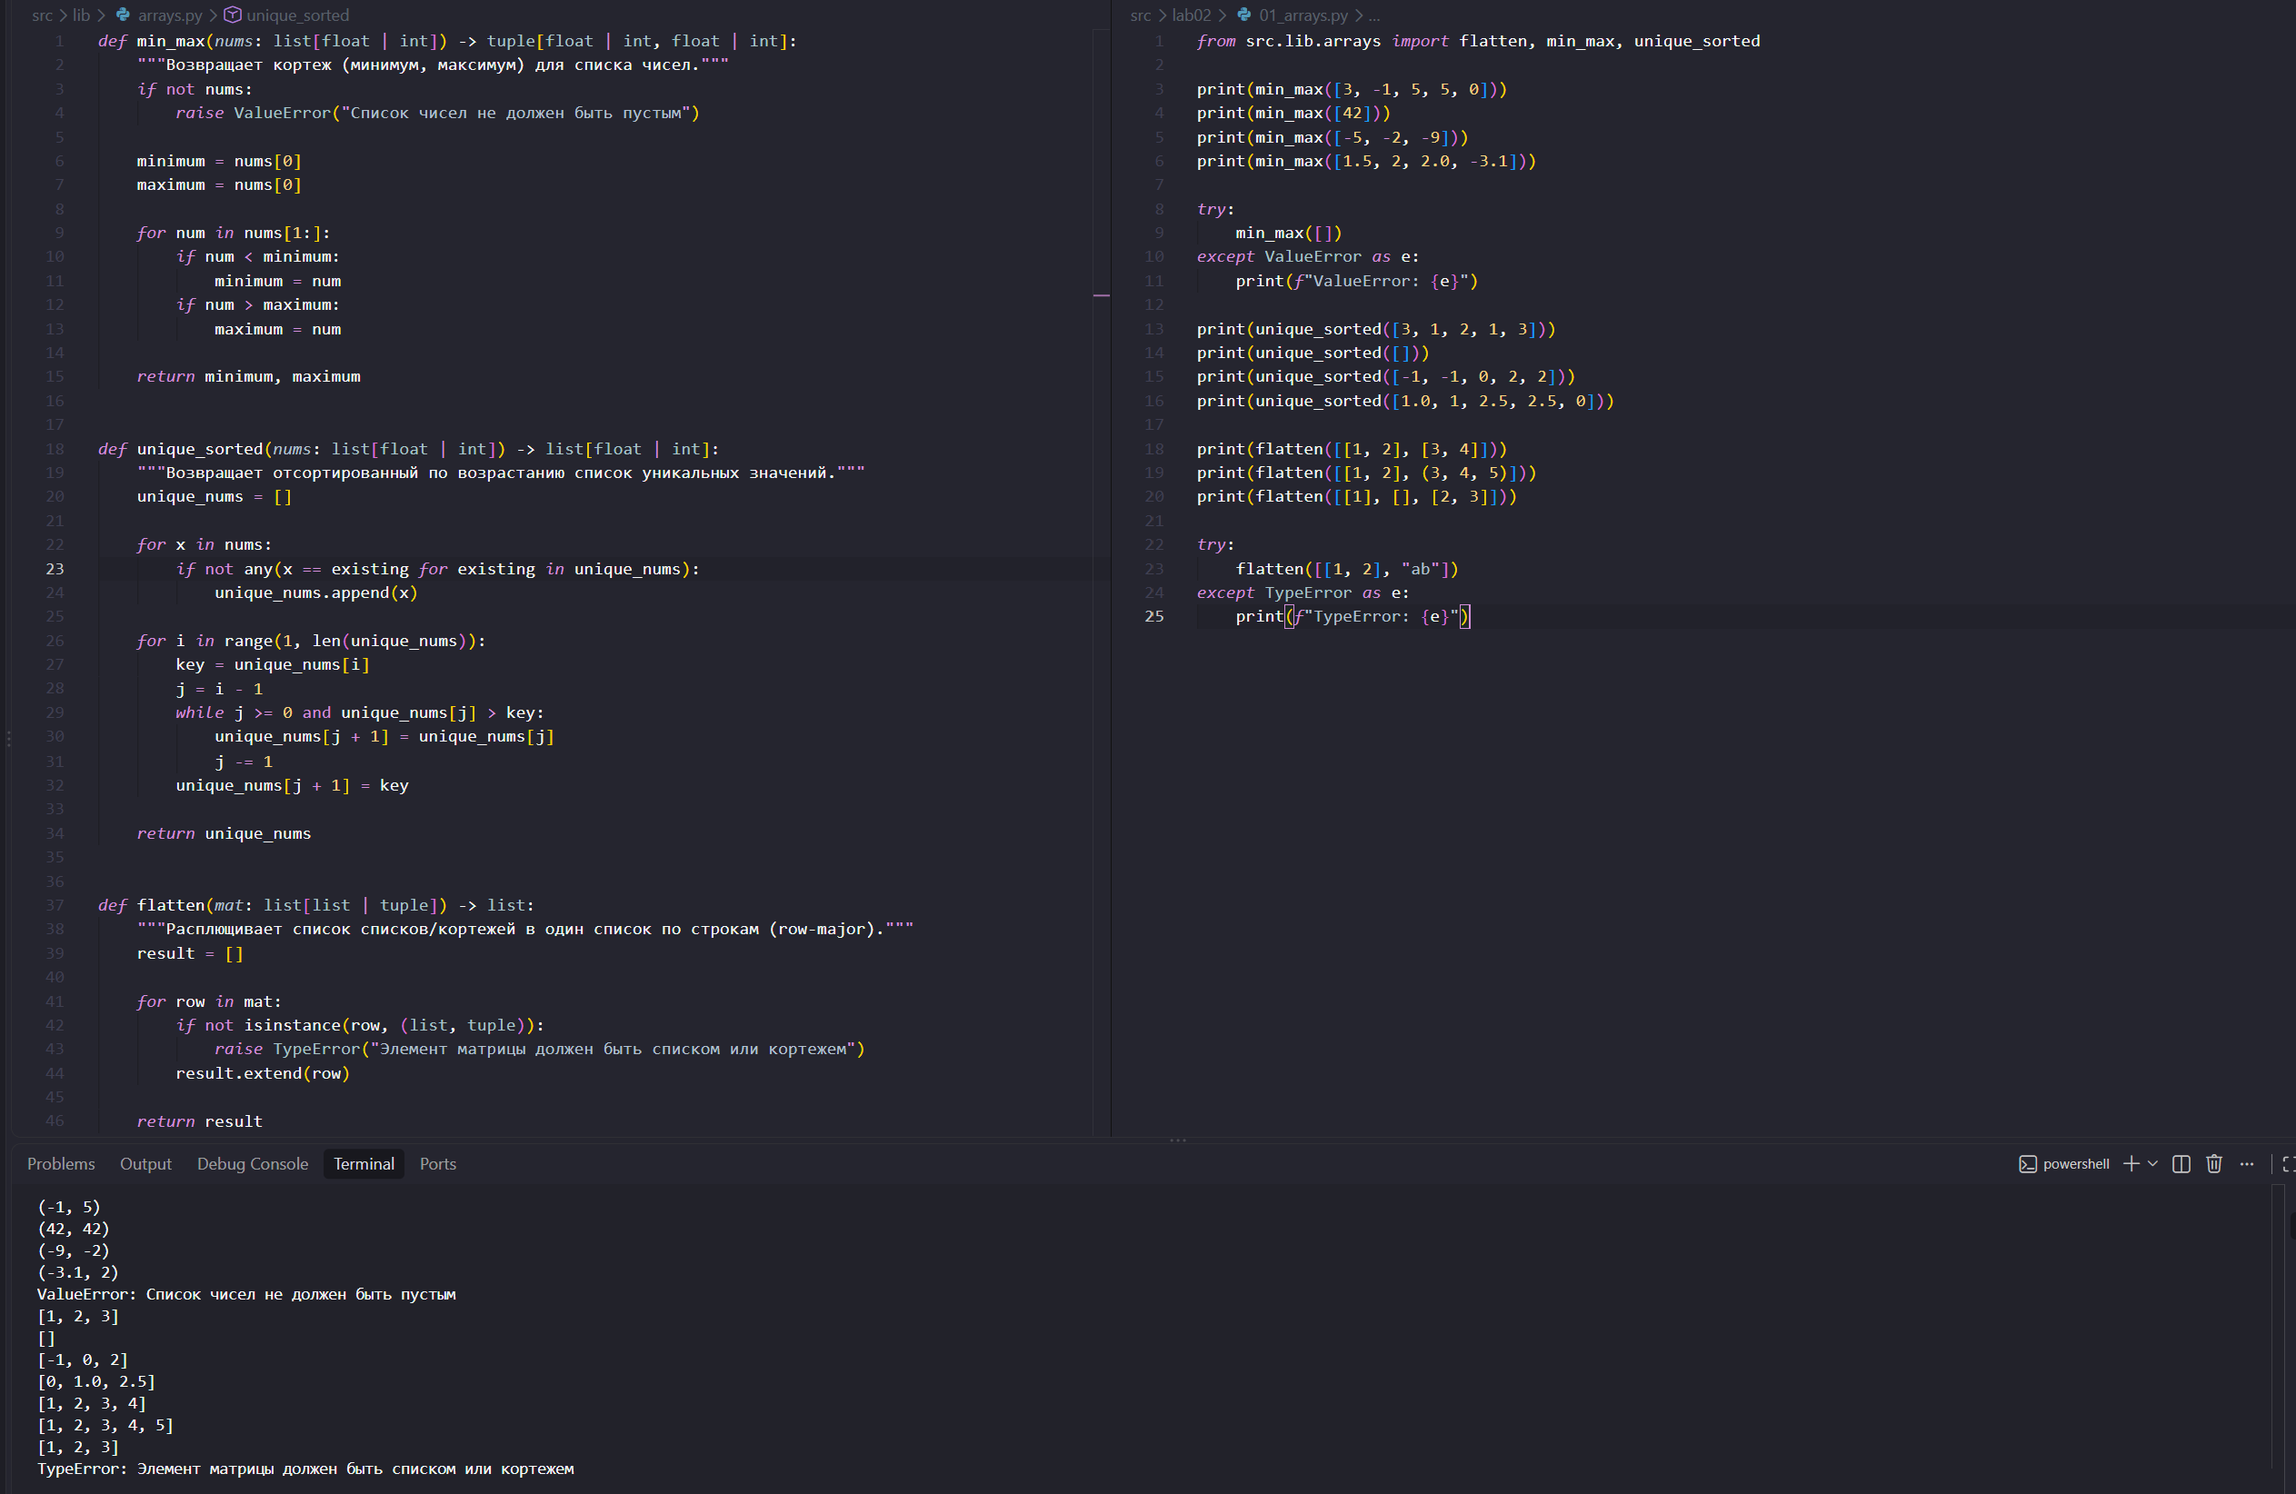
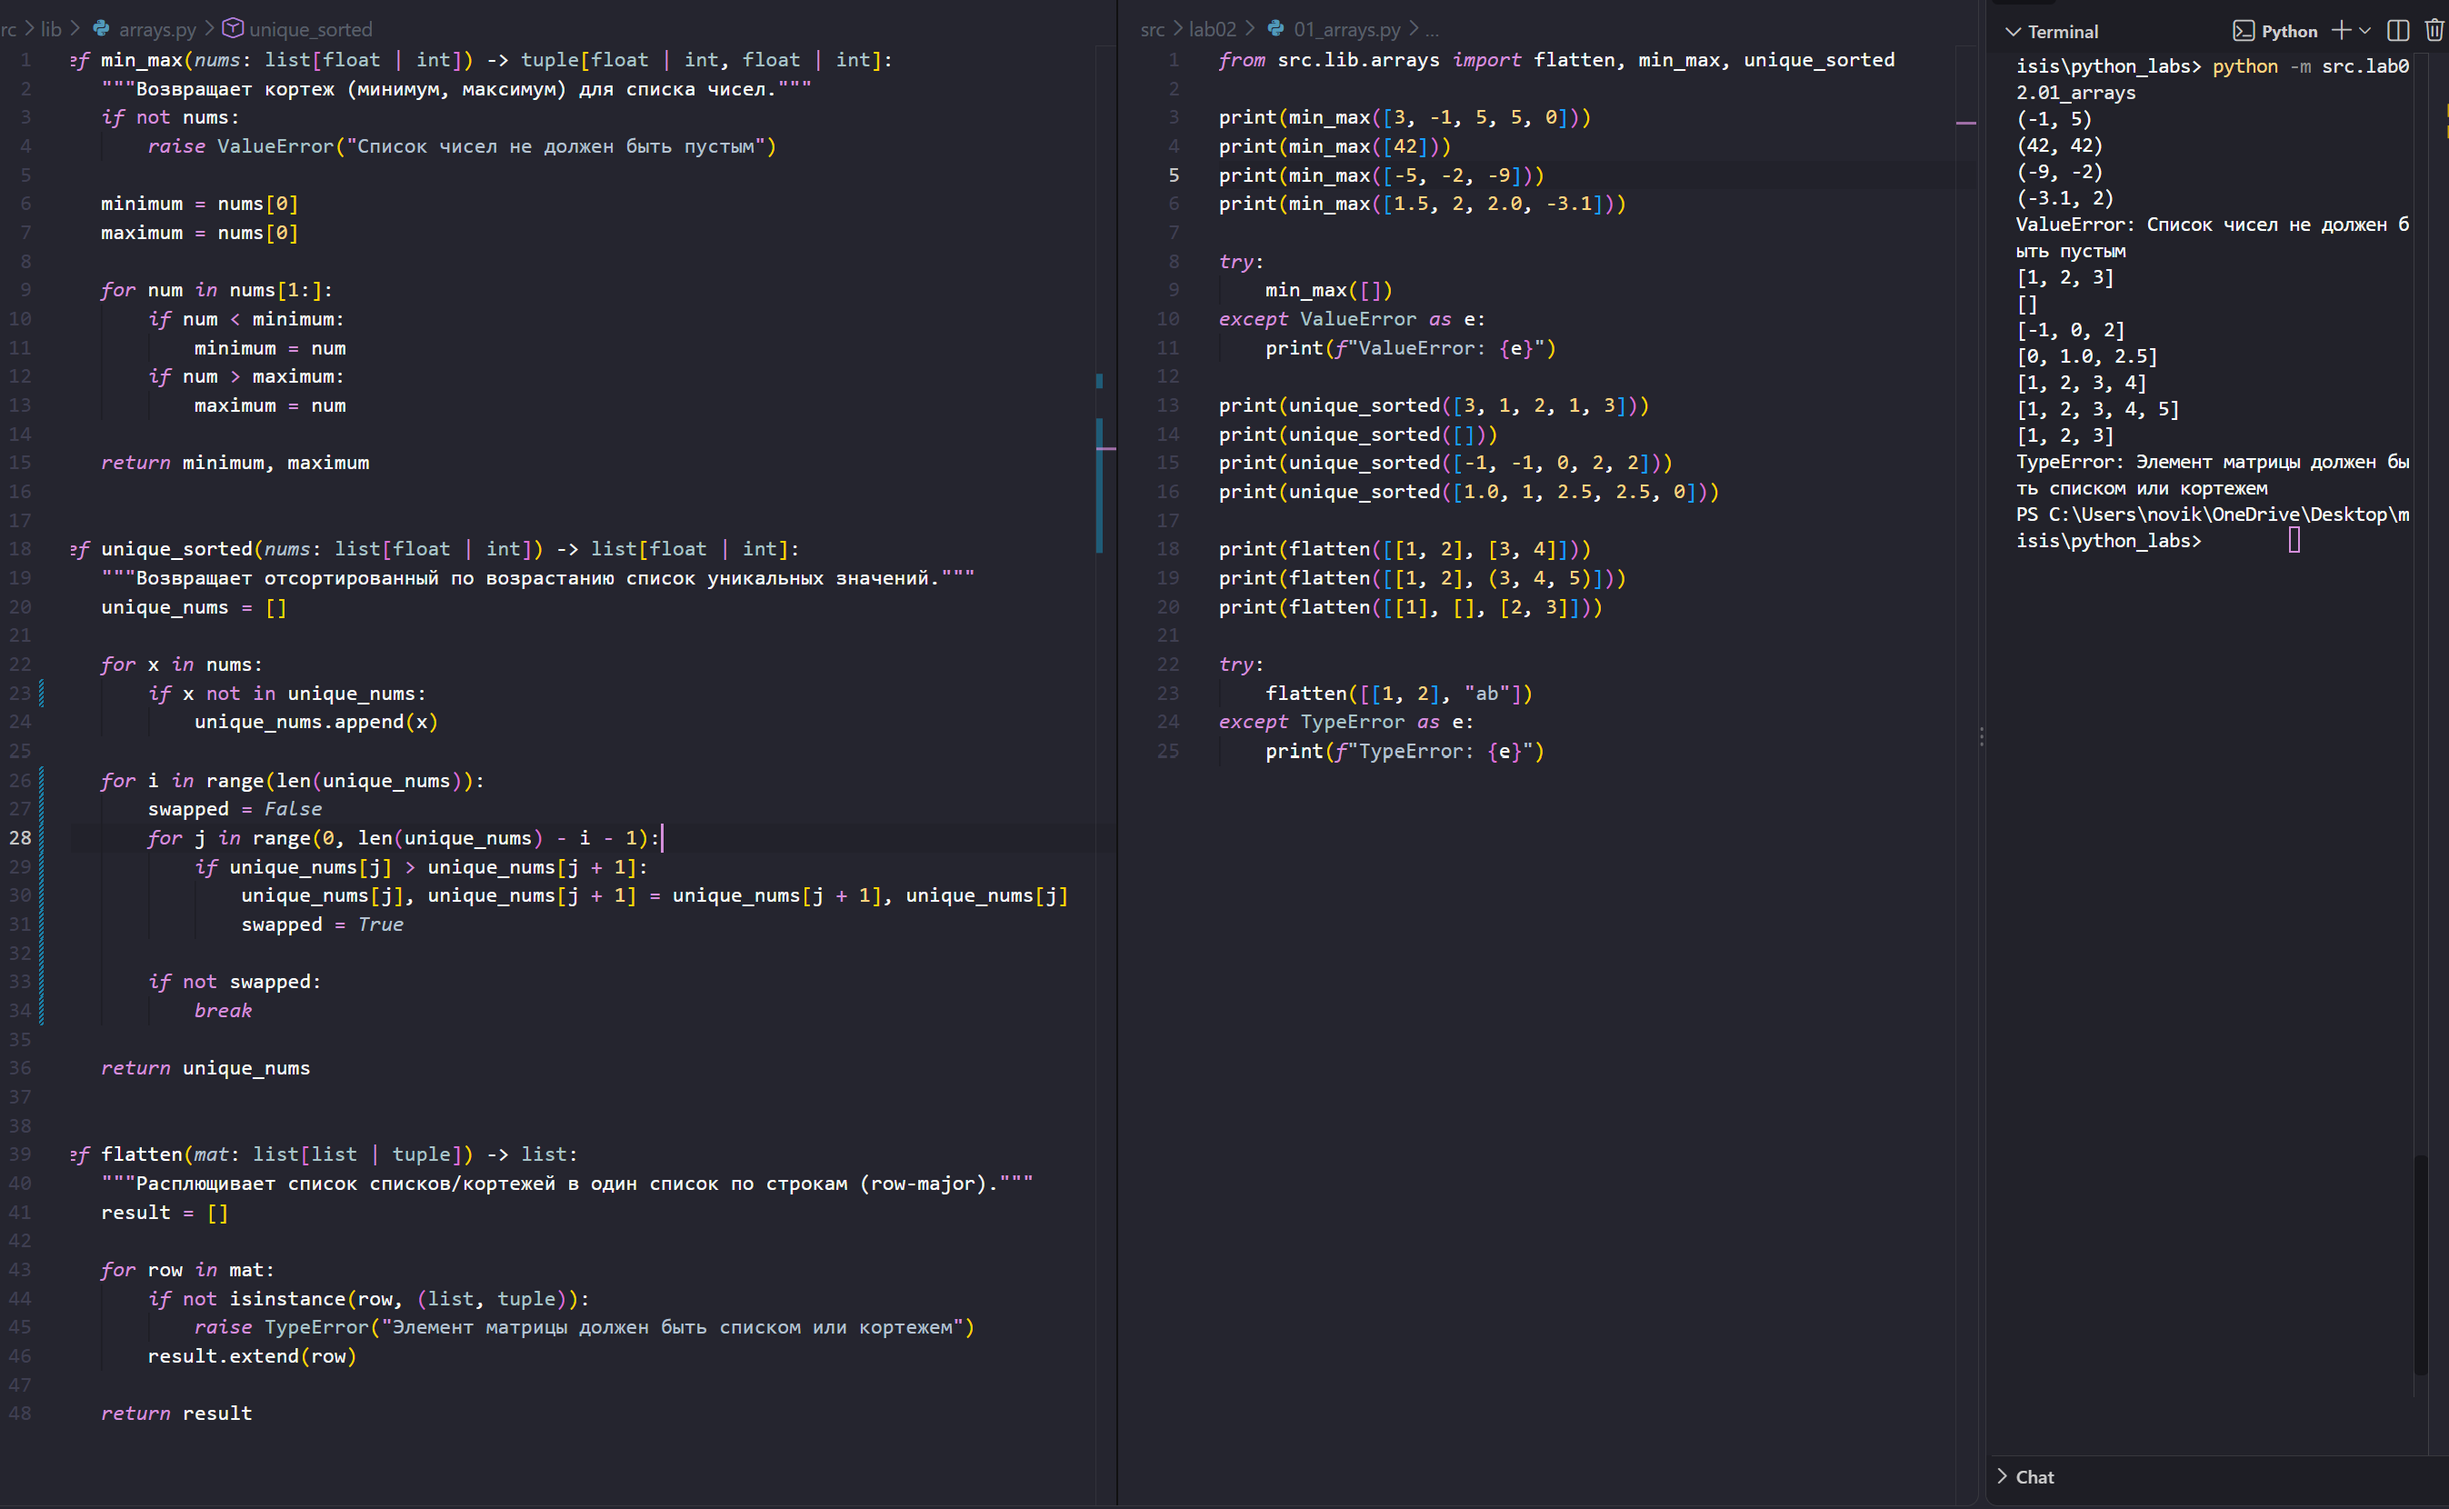
some changes

diff --git a/src/lib/tuples.py b/src/lib/tuples.py
@@ -2,7 +2,7 @@ def format_record(rec: tuple[str, str, float]) -> str:
     """Форматирует запись о студенте в текстовую строку.
     Raises:
         TypeError: Если входные данные имеют неверный тип.
-        ValueError: Если ФИО содержит менее 2 слов или группа пустая.
+        ValueError: Если ФИО содержит менее 2 слов, группа пустая или неверный GPA.
     """
     if not isinstance(rec, tuple) or len(rec) != 3:
         raise TypeError("Запись должна быть кортежем из 3 элементов: (fio, group, gpa).")
@@ -14,6 +14,9 @@ def format_record(rec: tuple[str, str, float]) -> str:
 
     if isinstance(gpa, bool) or not isinstance(gpa, (int, float)):
         raise TypeError("GPA должен быть числом (float или int).")
+
+    if gpa < 0 or gpa > 5:
+        raise ValueError("GPA должен принадлежать промежутку от 0.0 до 5.0")
 
     fio_parts = fio.split()
     if len(fio_parts) < 2:

diff --git a/src/lib/arrays.py b/src/lib/arrays.py
@@ -20,16 +20,18 @@ def unique_sorted(nums: list[float | int]) -> list[float | int]:
     unique_nums = []
 
     for x in nums:
-        if not any(x == existing for existing in unique_nums):
+        if x not in unique_nums:
             unique_nums.append(x)
 
-    for i in range(1, len(unique_nums)):
-        key = unique_nums[i]
-        j = i - 1
-        while j >= 0 and unique_nums[j] > key:
-            unique_nums[j + 1] = unique_nums[j]
-            j -= 1
-        unique_nums[j + 1] = key
+    for i in range(len(unique_nums)):
+        swapped = False
+        for j in range(0, len(unique_nums) - i - 1):
+            if unique_nums[j] > unique_nums[j + 1]:
+                unique_nums[j], unique_nums[j + 1] = unique_nums[j + 1], unique_nums[j]
+                swapped = True
+                
+        if not swapped:
+            break
 
     return unique_nums
 
